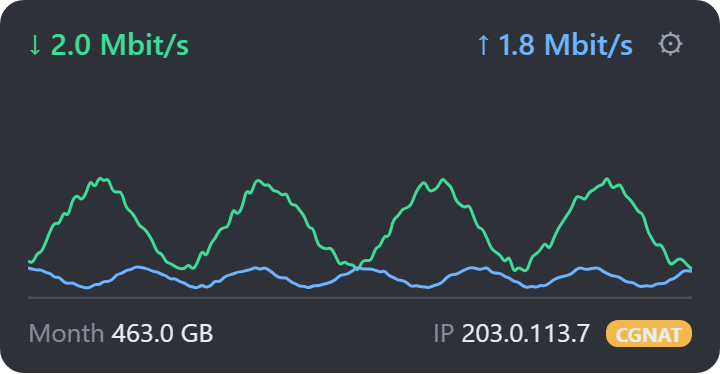
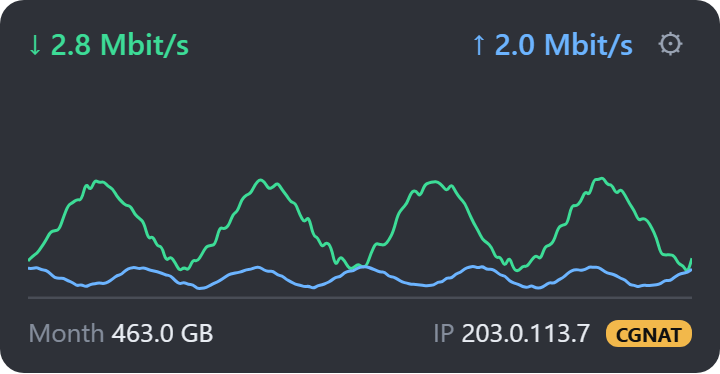
Make the CGNAT badge text readable in both themes
The footer rule `footer span:not(.label)` outranked `.badge`, so the
badge text took the foreground colour: light text on amber in dark mode
(1.5:1) and dark text on brown in light mode (2.7:1). Exclude the badge
from that rule and give it an --on-warn token: dark on amber (10.6:1),
white on brown (6.3:1). Retake both README screenshots.

diff --git a/ui/style.css b/ui/style.css
@@ -7,6 +7,7 @@
   --down: #3ddc97;
   --up: #6cb4ff;
   --warn: #f2b84b;
+  --on-warn: #111;
 }
 /* Light tokens: when Windows is light (unless forced dark) or when forced light. */
 @media (prefers-color-scheme: light) {
@@ -17,6 +18,7 @@
     --down: #00704a;
     --up: #1d5fc7;
     --warn: #8a5300;
+    --on-warn: #fff;
   }
 }
 :root[data-theme="light"] {
@@ -26,6 +28,7 @@
   --down: #00704a;
   --up: #1d5fc7;
   --warn: #8a5300;
+  --on-warn: #fff;
 }
 html, body { margin: 0; background: transparent; font: 13px/1.3 "Segoe UI", system-ui, sans-serif; color: var(--fg); }
 .card { box-sizing: border-box; width: 360px; padding: 12px 14px; border-radius: 12px; background: var(--bg); user-select: none; }
@@ -40,8 +43,8 @@ header .rate:first-of-type { margin-right: auto; }
 canvas { display: block; width: 100%; height: 110px; margin: 8px 0; }
 footer { display: flex; justify-content: space-between; color: var(--muted); }
 footer .label { opacity: 0.8; }
-footer span:not(.label) { color: var(--fg); }
-.badge { margin-left: 4px; padding: 0 5px; border-radius: 6px; background: var(--warn); color: #111; font-size: 10px; font-weight: 700; }
+footer span:not(.label):not(.badge) { color: var(--fg); }
+.badge { margin-left: 4px; padding: 0 5px; border-radius: 6px; background: var(--warn); color: var(--on-warn); font-size: 10px; font-weight: 700; }
 .status { margin-top: 6px; color: var(--warn); font-size: 12px; }
 /* Dim the live values when no rate has arrived for a while (see STALE_MS in main.js). */
 .card.stale canvas, .card.stale .rate { opacity: 0.4; }
